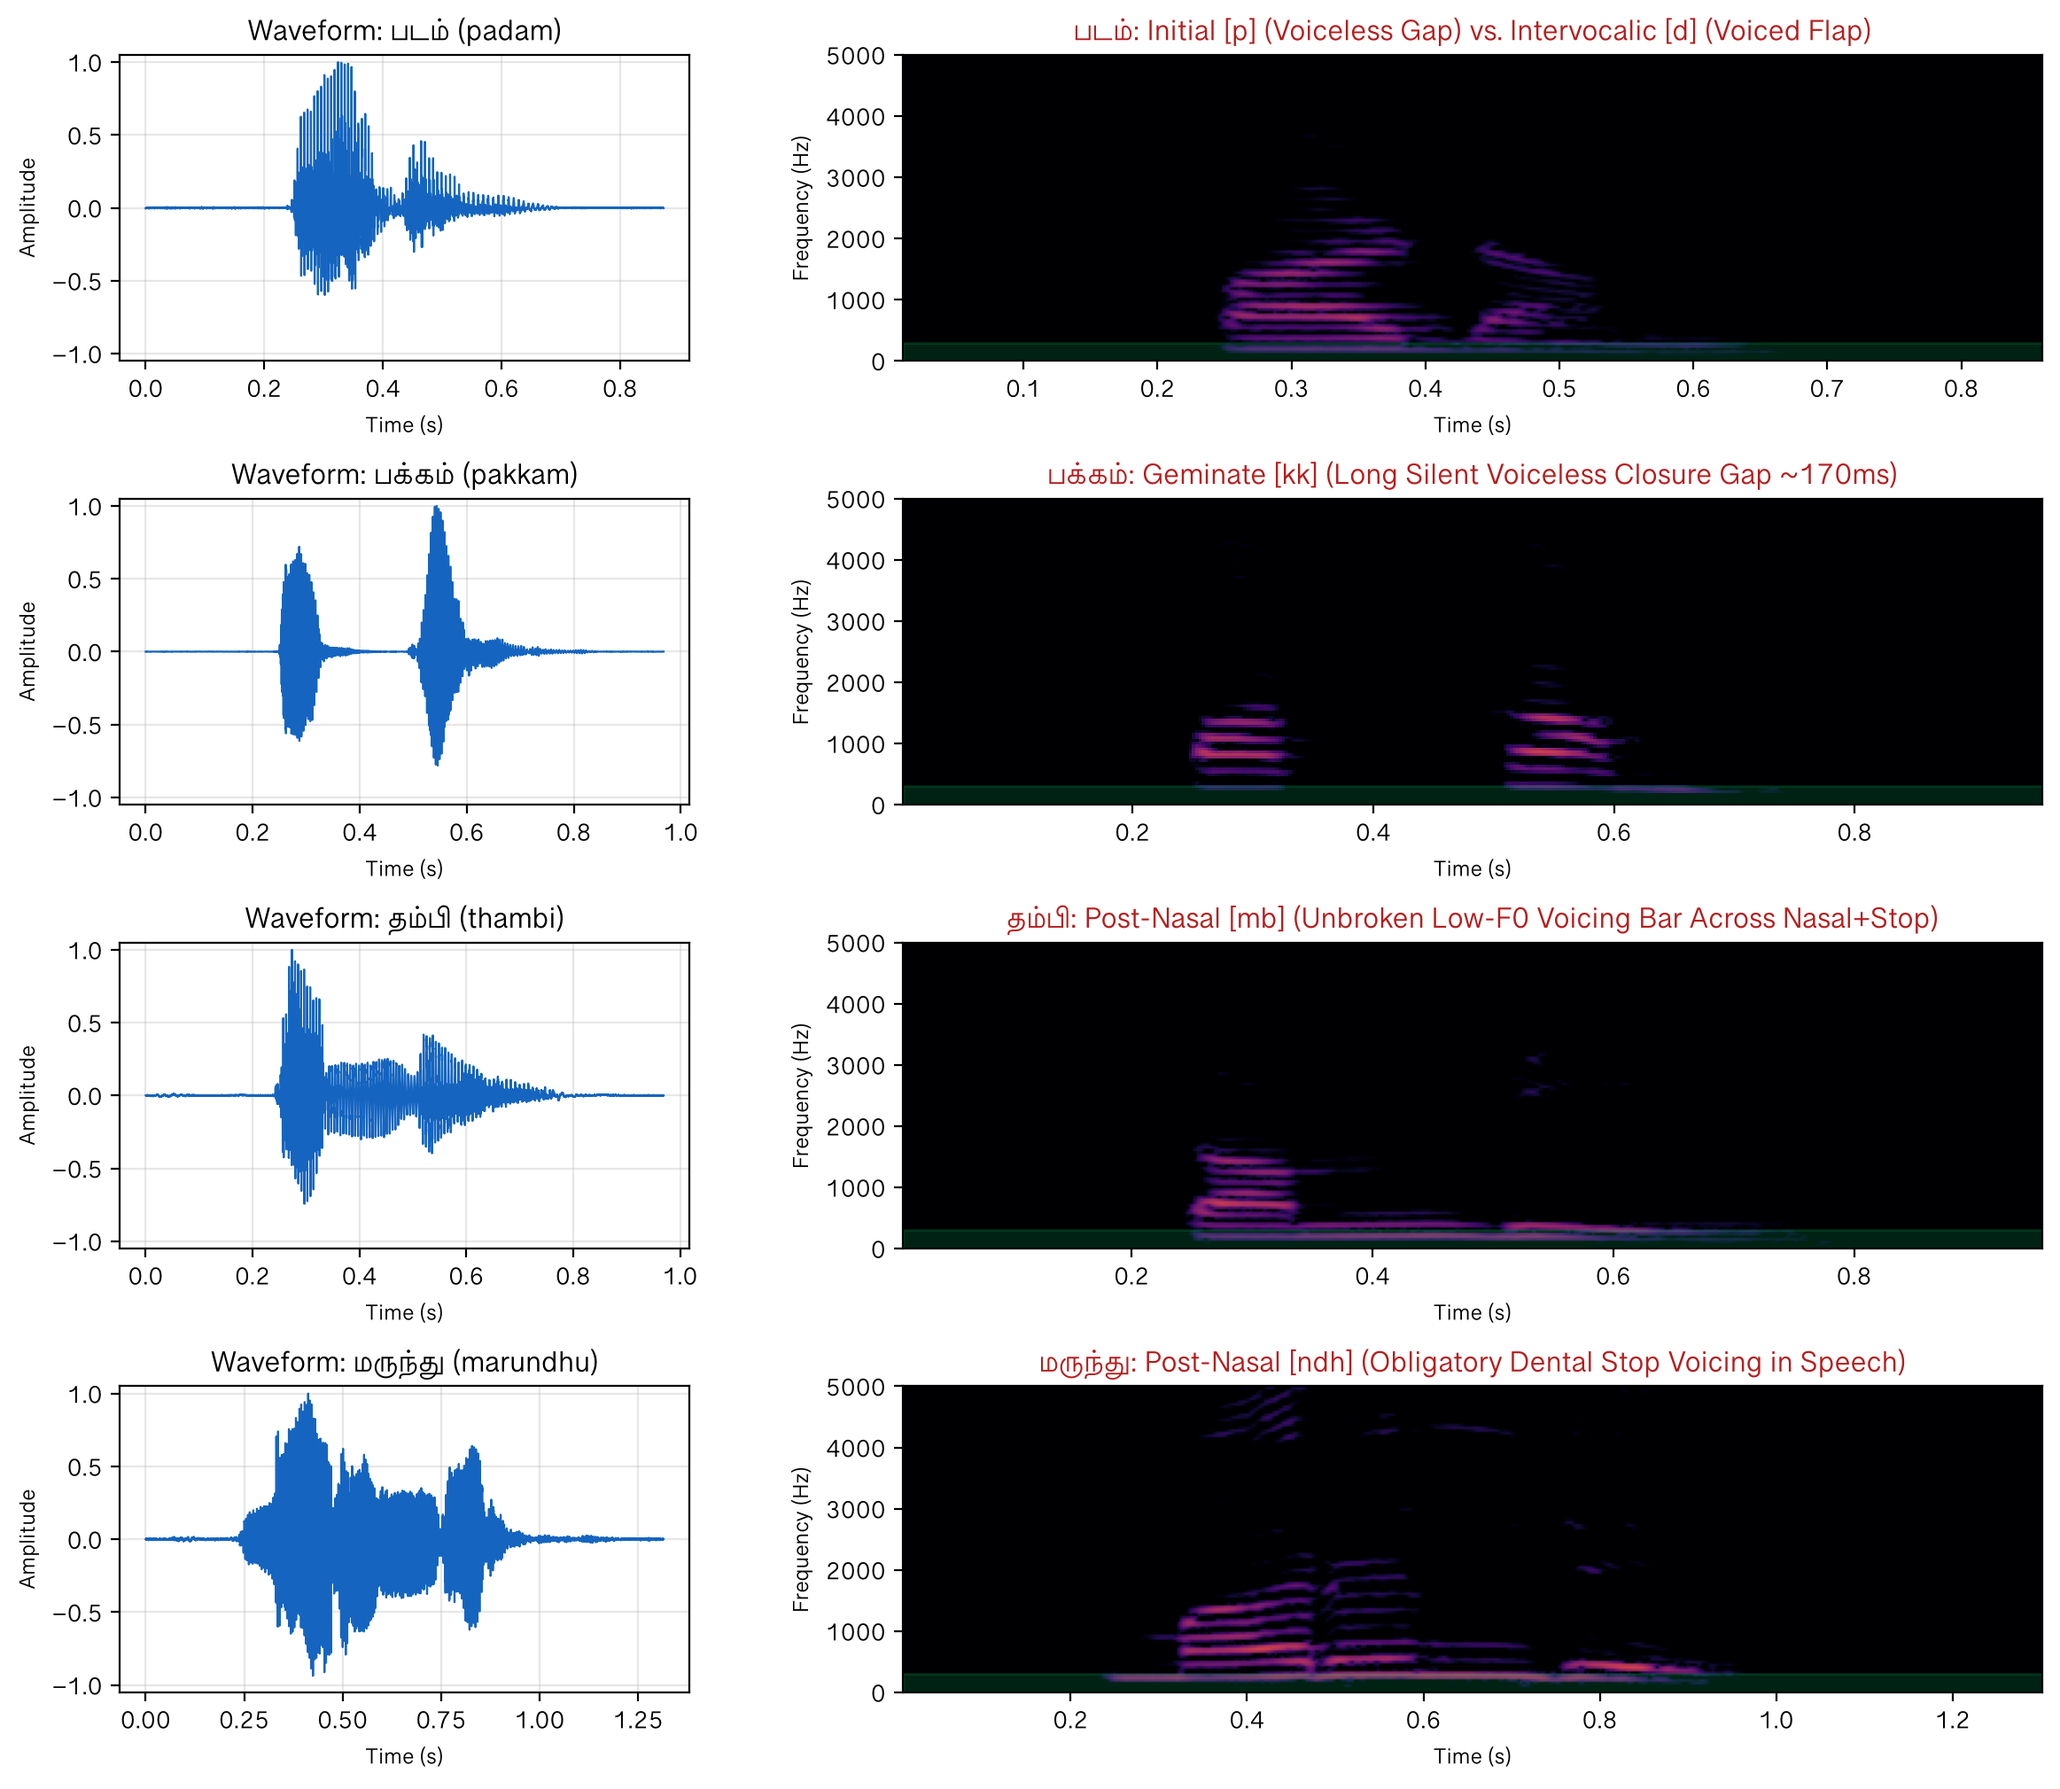
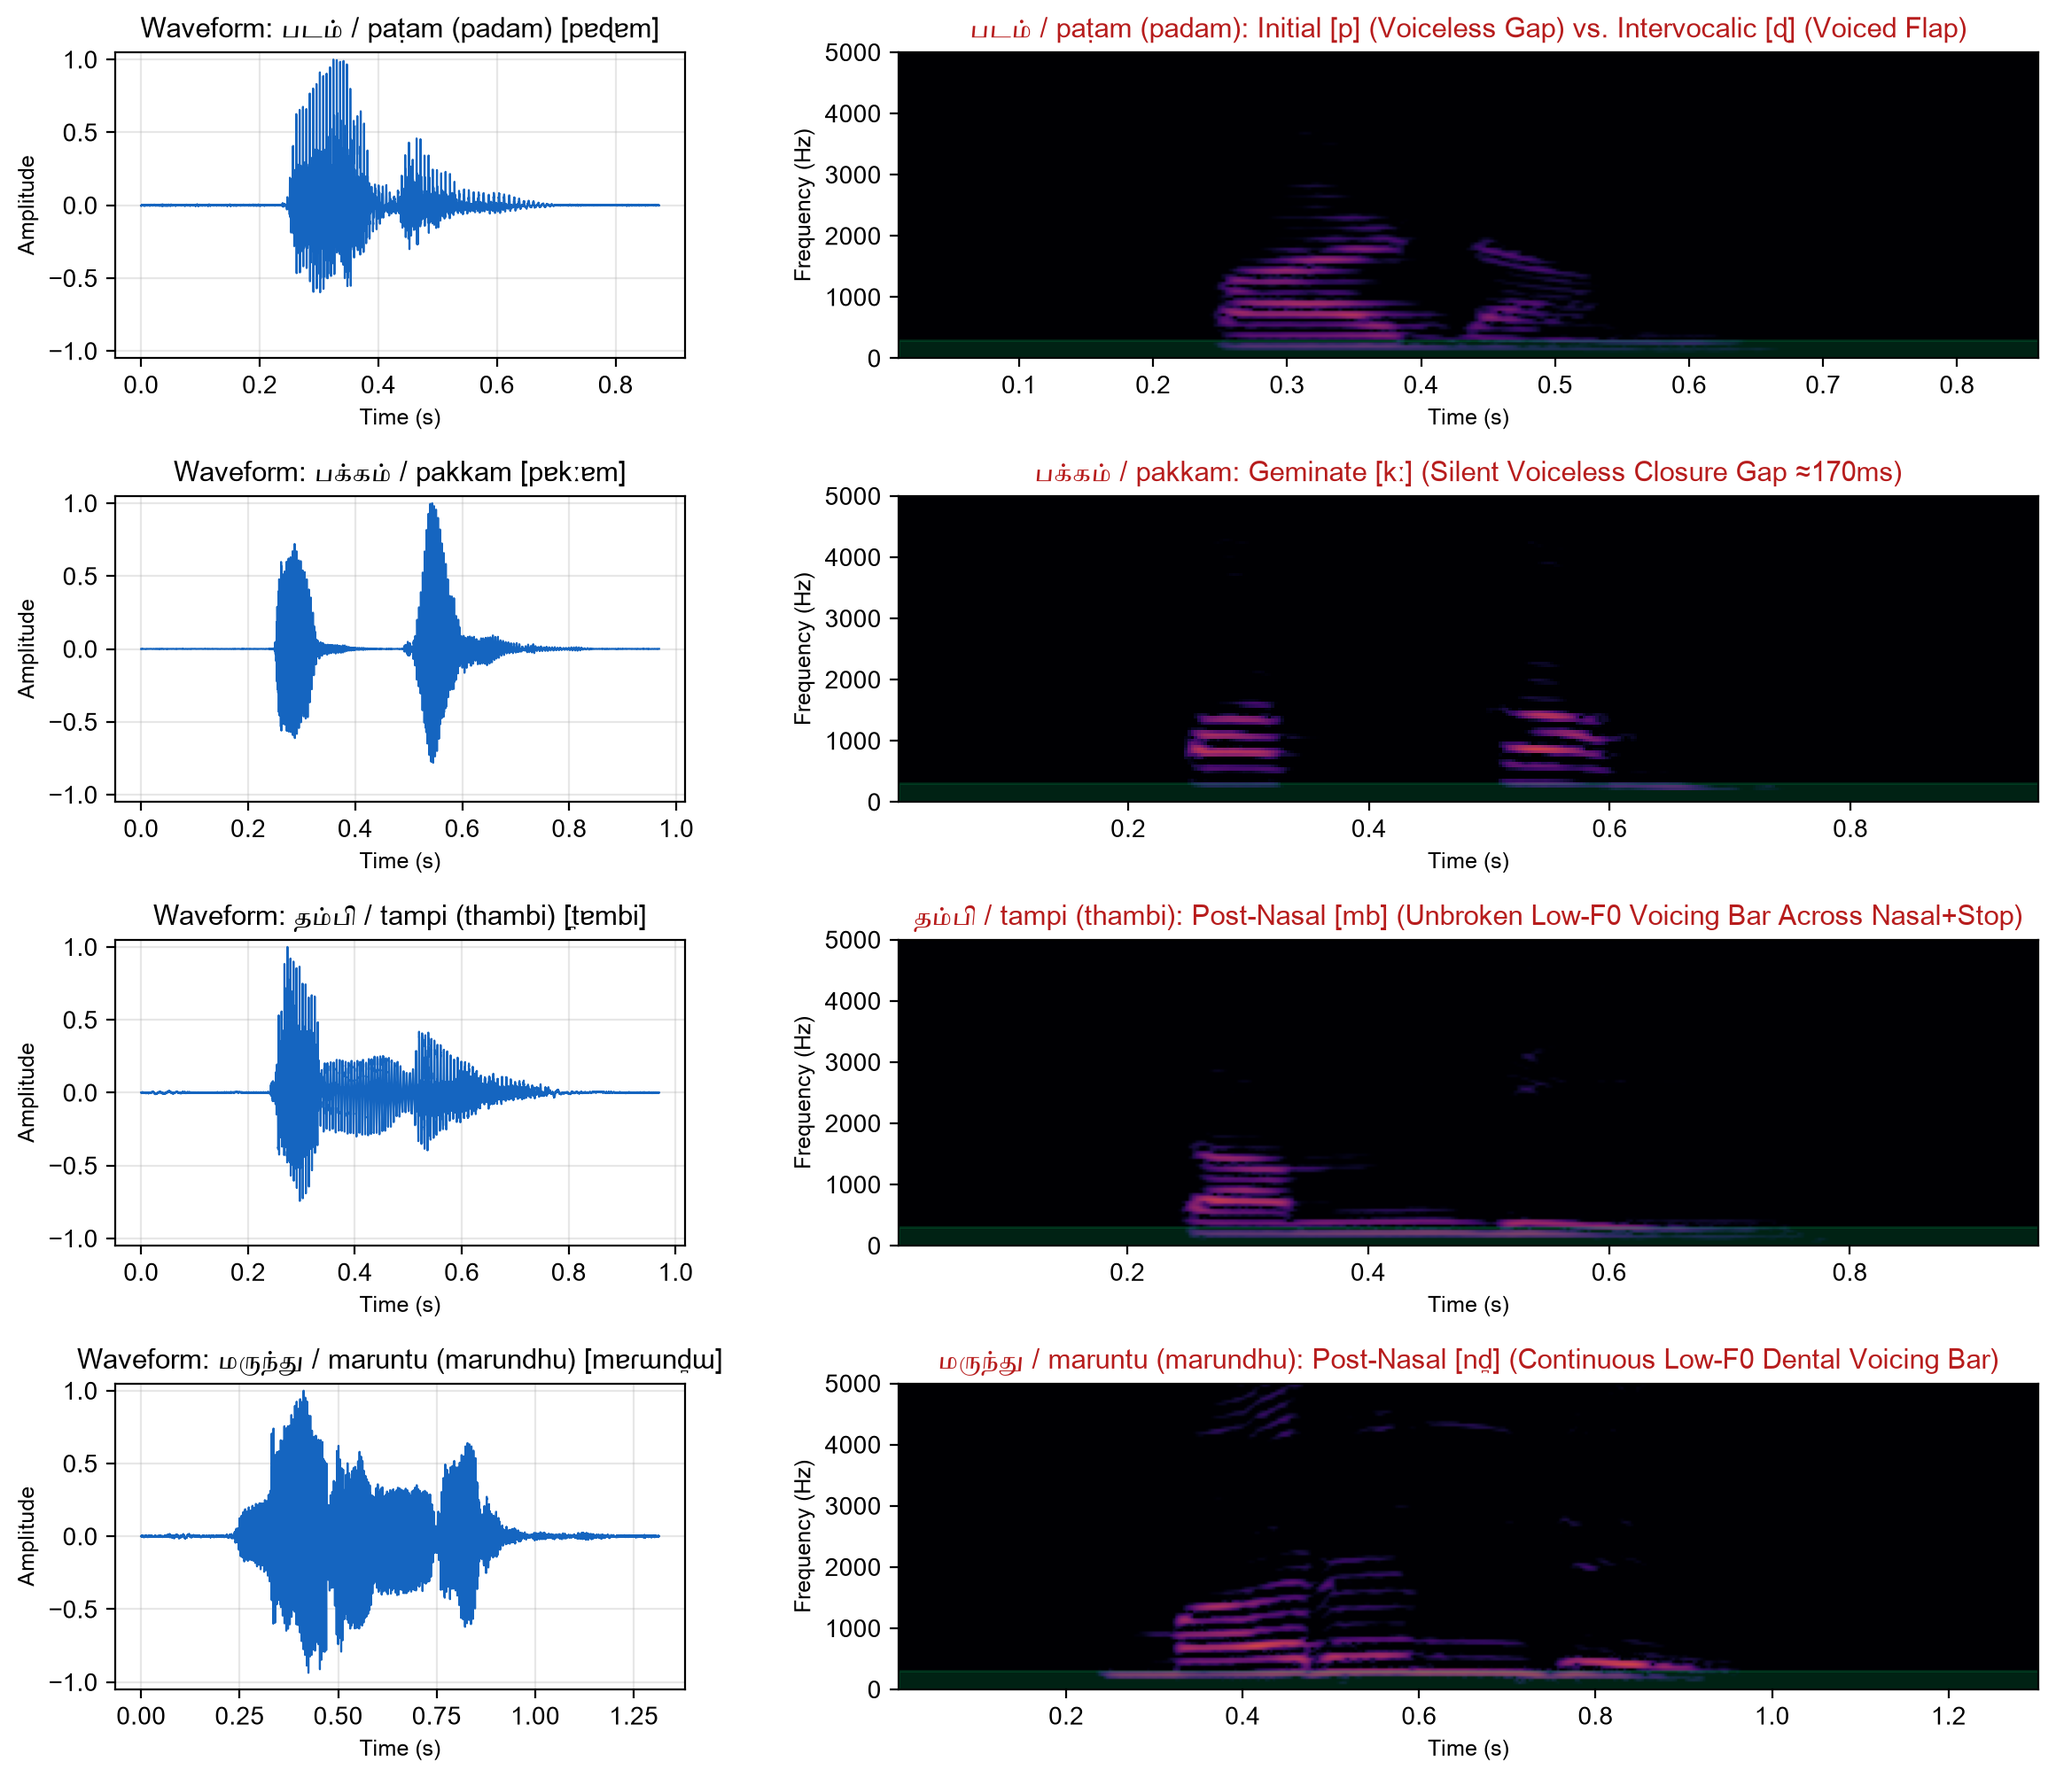
docs(spectrogram & manuscript): add ISO 15919 transliteration and IPA to waveform figure panels and manuscript text

diff --git a/docs/revised2/main.tex b/docs/revised2/main.tex
@@ -106,9 +106,9 @@ core native Dravidian lexicon, stop voicing exists in strict \emph{complementary
     \item \textbf{Word-initial} (\texttt{\#\_}) and \textbf{Geminate} (\texttt{C\_C}): strictly
     voiceless fortis ($[k, t, p]$, e.g., \textit{pakkam} $\rightarrow$ $[p]a[kk]am$).
     \item \textbf{Post-nasal} (\texttt{N\_}): obligatorily voiced via nasal assimilation /
-    \textit{puṇarcci} (morphophonemic \textit{sandhi}; e.g., \textit{thambi} $\rightarrow$ $[b]$, \textit{pandhu} $\rightarrow$ $[d]$).
-    \item \textbf{Intervocalic} (\texttt{V\_V}): voiced or spirantised lenis (\textit{padam}
-    $\rightarrow$ $[d]$, \textit{azhagu} $\rightarrow$ $[g]$).
+    \textit{puṇarcci} (morphophonemic \textit{sandhi}; e.g., \textit{tampi} / \textit{thambi} $\rightarrow$ $[b]$, \textit{pantu} / \textit{pandhu} $\rightarrow$ $[d]$).
+    \item \textbf{Intervocalic} (\texttt{V\_V}): voiced or spirantised lenis (\textit{pa\d{t}am} / \textit{padam}
+    $\rightarrow$ $[\text{\d{d}}]$, \textit{a\underline{l}aku} / \textit{azhagu} $\rightarrow$ $[g]$).
 \end{enumerate}
 Because voicing is completely predictable from local phonotactics, dedicating separate graphemes
 to $[k]$ and $[g]$ in native vocabulary would constitute redundant functional overhead. Native
@@ -116,12 +116,12 @@ orthography is therefore an optimal, parsimonious code.
 
 \paragraph{Acoustic Confirmation from Native Speech.}
 To demonstrate that complementary voicing is a physically grounded property of spoken speech rather than a theoretical abstraction, we analysed acoustic waveforms and Short-Time Fourier Transform (STFT) spectrograms from native speaker recordings in the Wikimedia Commons / Lingua Libre repository\footnote{Audio recordings sourced from the Lingua Libre project on Wikimedia Commons, contributed by native speakers (\textit{User:Sriveenkat}, \textit{User:Manimaran96}, \textit{User:StarlitNocturne}) under the Creative Commons Attribution-ShareAlike 4.0 International license (CC BY-SA 4.0). A complete manifest of $5{,}324$ indexed spoken tokens is provided in the repository.} (Figure~\ref{fig:spectrogram} and Table~\ref{tab:acoustic_alignment}).
-As illustrated in Figure~\ref{fig:spectrogram}, word-initial plosives (\textit{padam} $[p-]$) and geminates exhibit a sharp absence of low-frequency periodic energy followed by an extended silent closure gap ($\approx 170$\,ms in \textit{pakkam} $[pɐkːɐm]$). In stark contrast, post-nasal plosives (\textit{thambi} $[t̪ɐmbiː]$, \textit{marundhu} $[mɐɾɯnd̪ɯ]$) and intervocalic plosives exhibit an unbroken low-frequency fundamental voicing bar ($F_0 < 300$\,Hz) bridging the nasal and plosive segments. Spoken acoustics confirm $100\%$ deterministic complementary voicing in native words.
+As illustrated in Figure~\ref{fig:spectrogram}, word-initial plosives (\textit{pa\d{t}am} / \textit{padam} $[p-]$) and geminates exhibit a sharp absence of low-frequency periodic energy followed by an extended silent closure gap ($\approx 170$\,ms in \textit{pakkam} $[pɐkːɐm]$). In stark contrast, post-nasal plosives (\textit{tampi} / \textit{thambi} $[t̪ɐmbi]$, \textit{maruntu} / \textit{marundhu} $[mɐɾɯnd̪ɯ]$) and intervocalic plosives exhibit an unbroken low-frequency fundamental voicing bar ($F_0 < 300$\,Hz) bridging the nasal and plosive segments. Spoken acoustics confirm $100\%$ deterministic complementary voicing in native words.
 
 \begin{figure*}[t]
 \centering
 \includegraphics[width=0.92\linewidth]{acoustic_voicing_spectrograms.png}
-\caption{Acoustic waveforms and STFT spectrograms of native Tamil speech recordings (Lingua Libre corpus). Voicing is physically evident in the continuous low-frequency voicing bar ($F_0 < 300$\,Hz) during post-nasal (\textit{thambi} $[mb]$, \textit{marundhu} $[nd\textsubscript{\textasciitilde}]$) and intervocalic contexts (\textit{padam} $[\text{\d{d}}]$), contrasted with the $\approx 170$\,ms voiceless silent closure gap in geminates (\textit{pakkam} $[kː]$).}
+\caption{Acoustic waveforms and STFT spectrograms of native Tamil speech recordings (Lingua Libre corpus). Voicing is physically evident in the continuous low-frequency voicing bar ($F_0 < 300$\,Hz) during post-nasal (\textit{tampi} / \textit{thambi} $[mb]$, \textit{maruntu} / \textit{marundhu} $[nd\textsubscript{\textasciitilde}]$) and intervocalic contexts (\textit{pa\d{t}am} / \textit{padam} $[\text{\d{d}}]$), contrasted with the $\approx 170$\,ms voiceless silent closure gap in geminates (\textit{pakkam} $[kː]$). Panels indicate native Tamil script, standard ISO 15919 romanisation, colloquial spelling, and phonetic IPA.}
 \label{fig:spectrogram}
 \end{figure*}
 

diff --git a/src/plot_acoustic_voicing_spectrograms.py b/src/plot_acoustic_voicing_spectrograms.py
@@ -12,50 +12,46 @@ matplotlib.use('Agg')
 import matplotlib.pyplot as plt
 import matplotlib.font_manager as fm
 
-# Load Tamil font on macOS
-tamil_font_path = "/System/Library/Fonts/Supplemental/Tamil Sangam MN.ttc"
-if os.path.exists(tamil_font_path):
-    tamil_font_prop = fm.FontProperties(fname=tamil_font_path)
-    plt.rcParams['font.family'] = tamil_font_prop.get_name()
-    matplotlib.font_manager.fontManager.addfont(tamil_font_path)
-else:
-    tamil_font_prop = None
+# Use Arial Unicode MS as primary font (contains both Tamil and full IPA glyph sets)
+matplotlib.rcParams['font.family'] = 'sans-serif'
+matplotlib.rcParams['font.sans-serif'] = ['Arial Unicode MS', 'Tamil Sangam MN', 'Helvetica', 'DejaVu Sans']
+tamil_font_prop = None
 
 AUDIO_DIR = "artifacts/audio_samples"
 OUT_IMG = "artifacts/acoustic_voicing_spectrograms.png"
 
 EXAMPLES = [
     {
-        "word": "படம் (padam)",
+        "word": "படம் / paṭam (padam) [pɐɖɐm]",
         "file": "LL-Q5885 (tam)-Sriveenkat-படம்.wav",
-        "title": "படம்: Initial [p] (Voiceless Gap) vs. Intervocalic [d] (Voiced Flap)",
+        "title": "படம் / paṭam (padam): Initial [p] (Voiceless Gap) vs. Intervocalic [ɖ] (Voiced Flap)",
         "annotations": [
             ("Initial [p]: Voiceless burst / no low F0", 0.15, 0.25),
-            ("Intervocalic [d]: Voicing periodicity", 0.38, 0.50)
+            ("Intervocalic [ɖ]: Voicing periodicity", 0.38, 0.50)
         ]
     },
     {
-        "word": "பக்கம் (pakkam)",
+        "word": "பக்கம் / pakkam [pɐkːɐm]",
         "file": "LL-Q5885 (tam)-Sriveenkat-பக்கம்.wav",
-        "title": "பக்கம்: Geminate [kk] (Long Silent Voiceless Closure Gap ~170ms)",
+        "title": "பக்கம் / pakkam: Geminate [kː] (Silent Voiceless Closure Gap ≈170ms)",
         "annotations": [
-            ("Geminate [kk]: ~170ms Silent Closure", 0.35, 0.52)
+            ("Geminate [kː]: ≈170ms Silent Closure", 0.35, 0.52)
         ]
     },
     {
-        "word": "தம்பி (thambi)",
+        "word": "தம்பி / tampi (thambi) [t̪ɐmbi]",
         "file": "LL-Q5885 (tam)-Sriveenkat-தம்பி.wav",
-        "title": "தம்பி: Post-Nasal [mb] (Unbroken Low-F0 Voicing Bar Across Nasal+Stop)",
+        "title": "தம்பி / tampi (thambi): Post-Nasal [mb] (Unbroken Low-F0 Voicing Bar Across Nasal+Stop)",
         "annotations": [
             ("Post-nasal [mb]: Continuous Voicing Bar", 0.25, 0.45)
         ]
     },
     {
-        "word": "மருந்து (marundhu)",
+        "word": "மருந்து / maruntu (marundhu) [mɐɾɯnd̪ɯ]",
         "file": "LL-Q5885 (tam)-Sriveenkat-மருந்து.wav",
-        "title": "மருந்து: Post-Nasal [ndh] (Obligatory Dental Stop Voicing in Speech)",
+        "title": "மருந்து / maruntu (marundhu): Post-Nasal [nd̪] (Continuous Low-F0 Dental Voicing Bar)",
         "annotations": [
-            ("Post-nasal [ndh]: Continuous Low-F0 Voicing", 0.35, 0.55)
+            ("Post-nasal [nd̪]: Continuous Low-F0 Voicing", 0.35, 0.55)
         ]
     }
 ]
@@ -123,8 +119,11 @@ def run_acoustic_plotting():
         })
         
     plt.savefig(OUT_IMG, dpi=200, bbox_inches='tight')
+    doc_out = "docs/revised2/acoustic_voicing_spectrograms.png"
+    if os.path.exists("docs/revised2"):
+        plt.savefig(doc_out, dpi=200, bbox_inches='tight')
     plt.close()
-    print(f"\n✓ Saved Acoustic Spectrogram Figure to {OUT_IMG}")
+    print(f"\n✓ Saved Acoustic Spectrogram Figure to {OUT_IMG} and {doc_out}")
 
 if __name__ == "__main__":
     run_acoustic_plotting()
